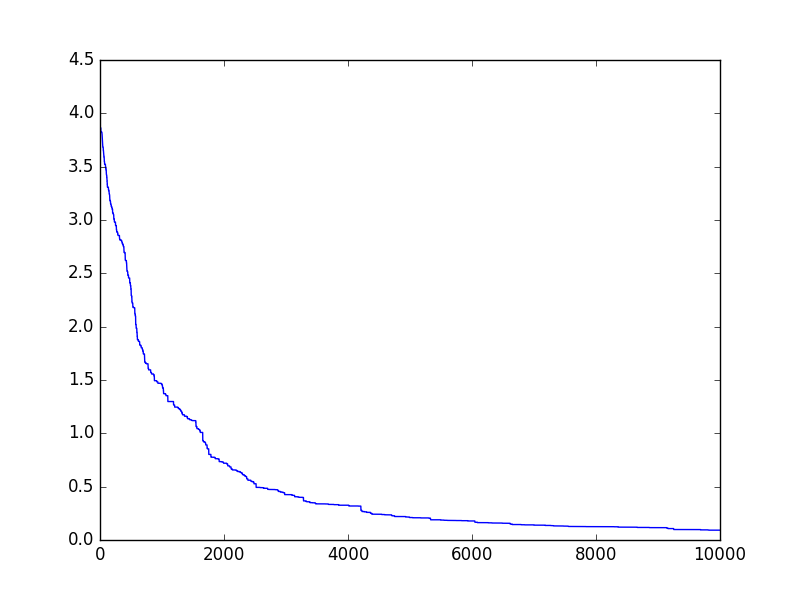
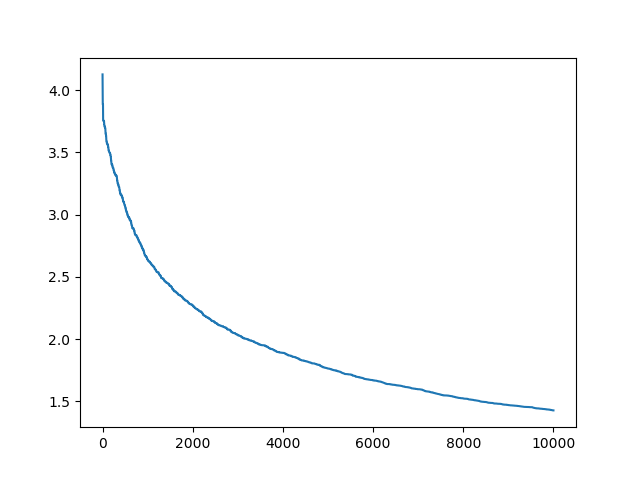
code optimization: racos_classification

diff --git a/zoopt/algos/opt_algorithms/racos/racos_classification.py b/zoopt/algos/opt_algorithms/racos/racos_classification.py
@@ -7,6 +7,7 @@ Author:
 
 from zoopt.dimension import Dimension
 from zoopt.utils.tool_function import ToolFunction
+import copy
 import numpy as np
 
 
@@ -26,7 +27,7 @@ class RacosClassification:
         """
         self.__solution_space = dim
         self.__sample_region = []
-        self.__label = []
+        self.__label_index = []
         # Solution
         self.__positive_solution = positive
         self.__negative_solution = negative
@@ -37,7 +38,6 @@ class RacosClassification:
         for i in range(dim.get_size()):
             temp = [regions[i][0], regions[i][1]]
             self.__sample_region.append(temp)
-            self.__label.append(False)
         return
 
     def reset_classifier(self):
@@ -50,7 +50,7 @@ class RacosClassification:
         for i in range(self.__solution_space.get_size()):
             self.__sample_region[i][0] = regions[i][0]
             self.__sample_region[i][1] = regions[i][1]
-            self.__label[i] = False
+            self.__label_index = []
         self.__x_positive = None
         return
 
@@ -161,11 +161,7 @@ class RacosClassification:
         :param iset: index set
         :return: no return value
         """
-        index_set = iset
-        for i in range(self.__uncertain_bit):
-            index = index_set[np.random.randint(0, len(index_set))]
-            self.__label[index] = True
-            index_set.remove(index)
+        self.__label_index = np.random.choice(iset, self.__uncertain_bit, replace=False)
         return
 
     def rand_sample(self):
@@ -174,15 +170,12 @@ class RacosClassification:
 
         :return: sampled x
         """
-        x = []
-        for i in range(self.__solution_space.get_size()):
-            if self.__label[i] is True:
-                if self.__solution_space.get_type(i) is True:
-                    x.append(np.random.uniform(self.__sample_region[i][0], self.__sample_region[i][1]))
-                else:
-                    x.append(np.random.randint(self.__sample_region[i][0], self.__sample_region[i][1]+1))
+        x = copy.deepcopy(self.__x_positive.get_x())
+        for index in self.__label_index:
+            if self.__solution_space.get_type(index) is True:
+                x[index] = np.random.uniform(self.__sample_region[index][0], self.__sample_region[index][1])
             else:
-                x.append(self.__x_positive.get_x_index(i))
+                x[index] = np.random.randint(self.__sample_region[index][0], self.__sample_region[index][1] + 1)
         return x
 
     def get_sample_region(self):
@@ -203,8 +196,8 @@ class RacosClassification:
     def get_x_positive(self):
         return self.__x_positive
 
-    def get_label(self):
-        return self.__label
+    def get_label_index(self):
+        return self.__label_index
 
     # for debugging
     def print_neg(self):

diff --git a/example/simple_functions/quick_start.py b/example/simple_functions/quick_start.py
@@ -11,8 +11,9 @@ from simple_function import ackley
 if __name__ == '__main__':
     dim = 100  # dimension
     objective = Objective(ackley, Dimension(dim, [[-1, 1]] * dim, [True] * dim))  # setup objective
-    parameter = Parameter(budget=100 * dim, init_samples=[Solution([0] * 100)])  # init with init_samples
-    solution_list = ExpOpt.min(objective, parameter, repeat=5, plot=False, plot_file="img/quick_start.png")
+    parameter = Parameter(budget=100 * dim, intermediate_result= True, intermediate_freq=1000)
+    # parameter = Parameter(budget=100 * dim, init_samples=[Solution([0] * 100)])  # init with init_samples
+    solution_list = ExpOpt.min(objective, parameter, repeat=1, plot=True, plot_file="img/quick_start.png")
     for solution in solution_list:
         x = solution.get_x()
         value = solution.get_value()
